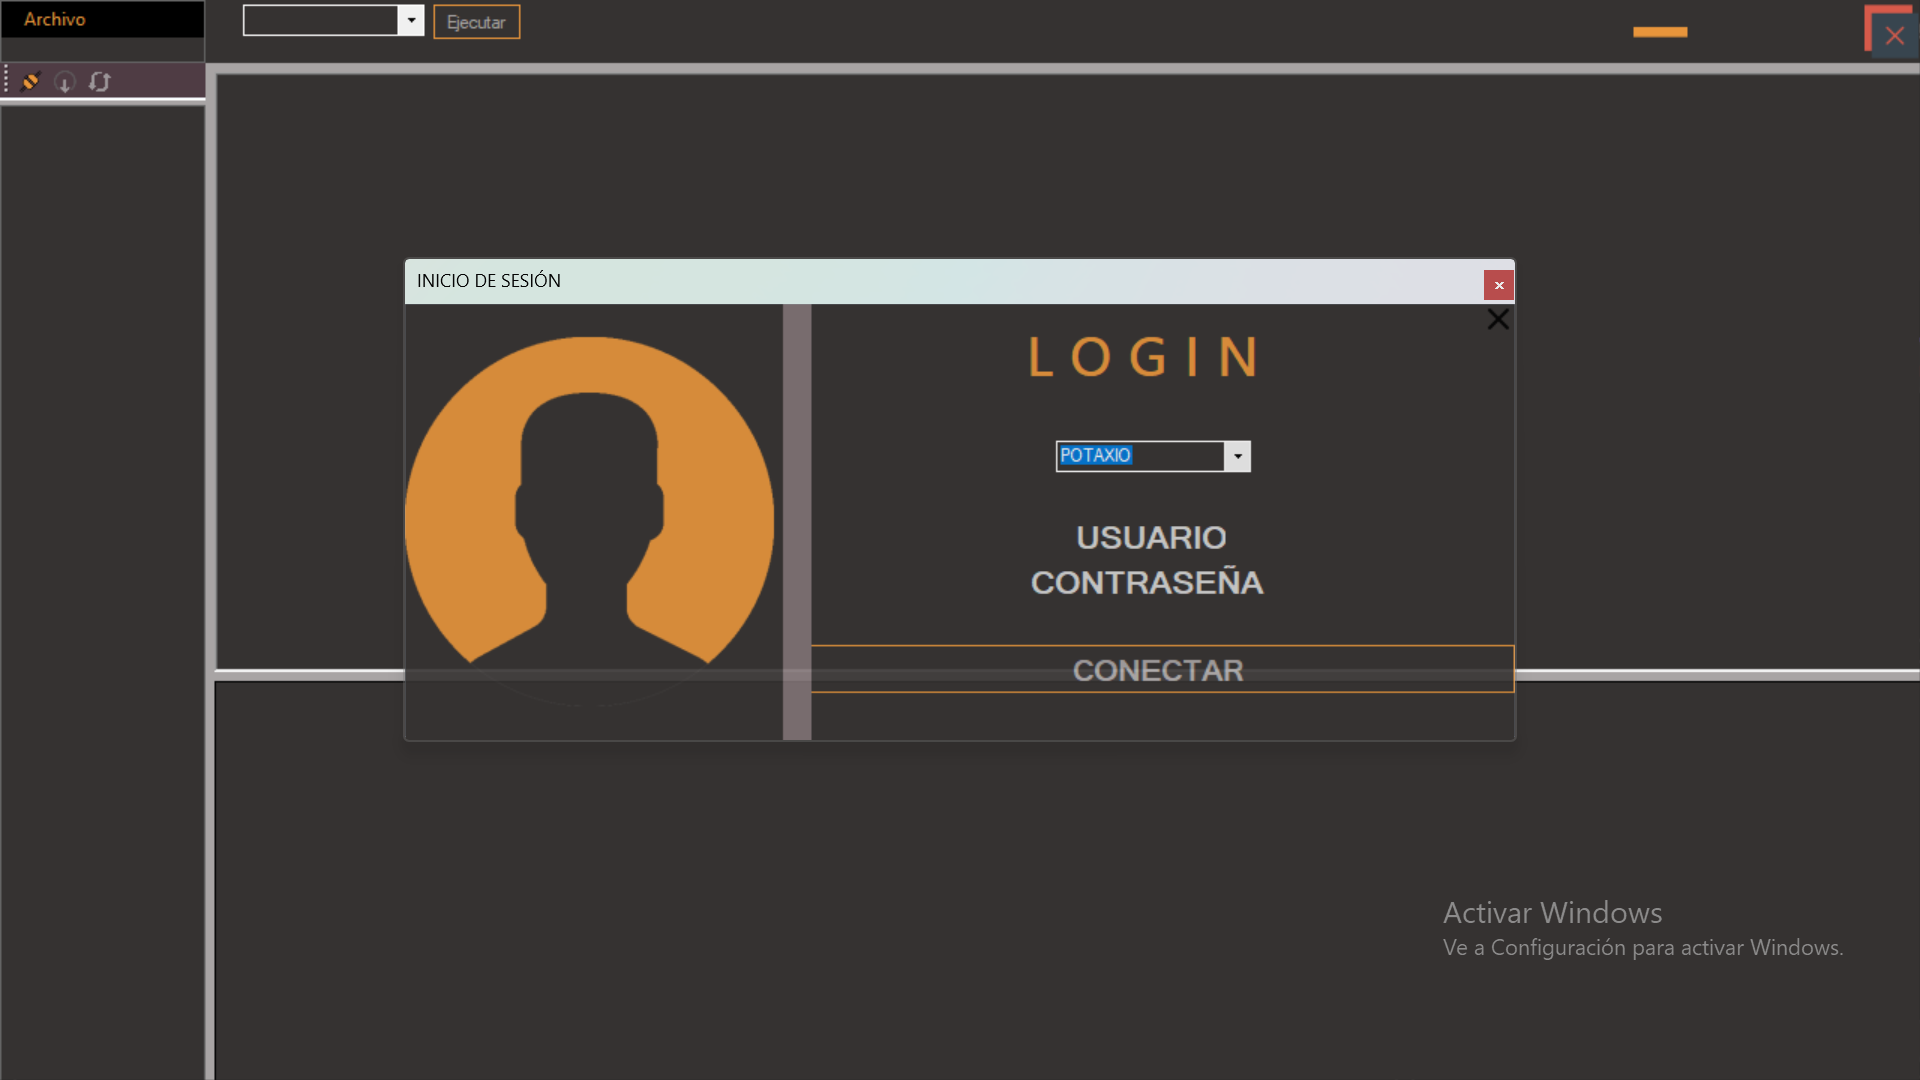
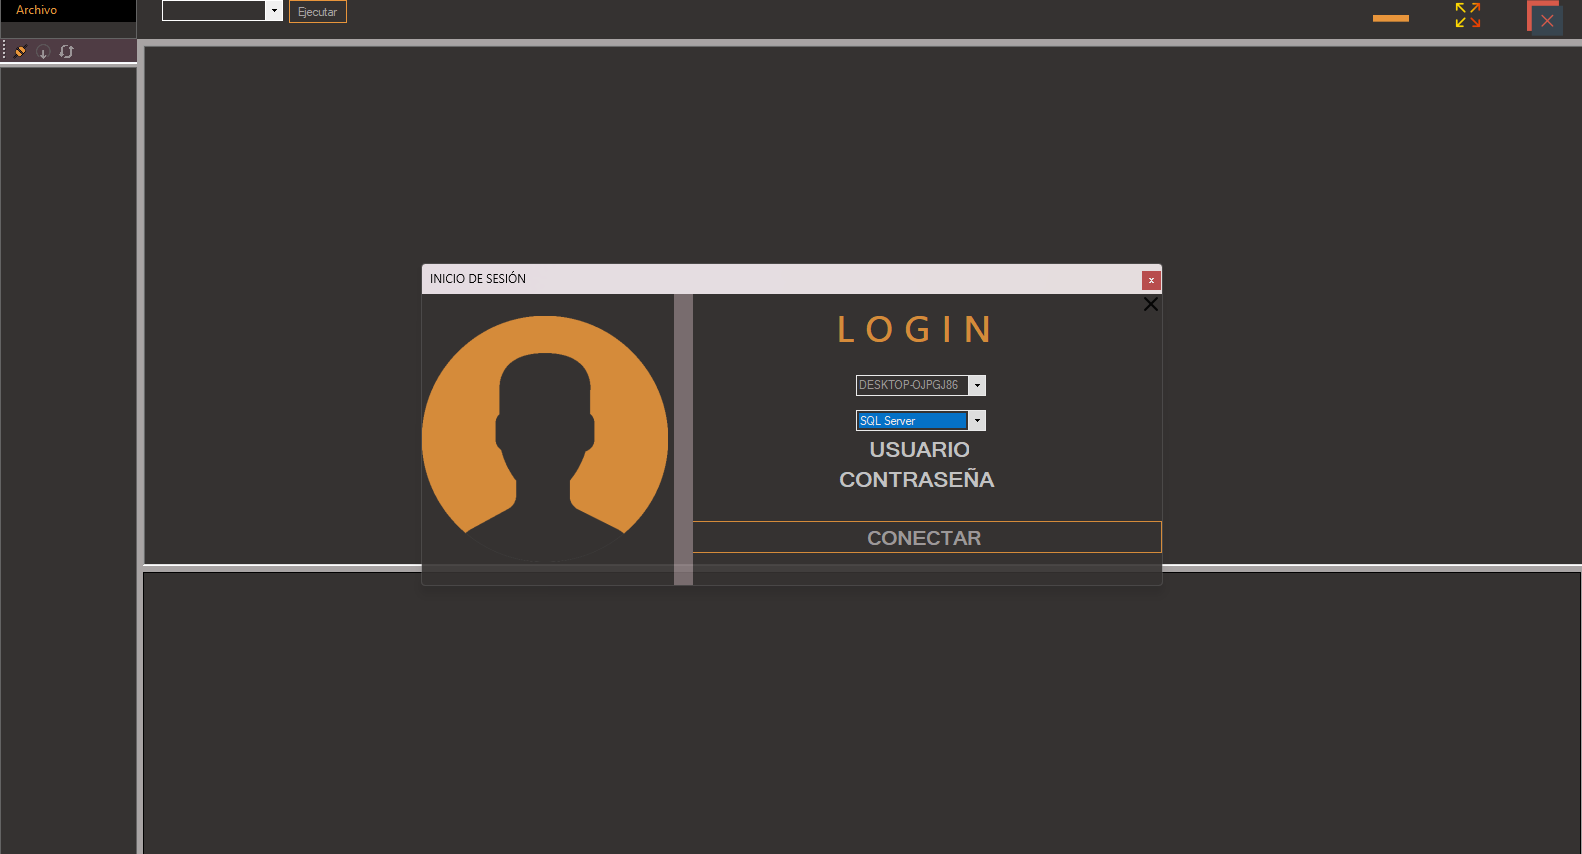
Modificación

Changed region(s): [[0.1858, 0.2131, 1.0, 1.0], [0.0, 0.0, 1.0, 1.0], [0.7434, 0.822, 0.9602, 0.8829]]

diff --git a/opConexión/MotoresBdd/MotorMySql.cs b/opConexión/MotoresBdd/MotorMySql.cs
@@ -1,0 +1,132 @@
+using Microsoft.SqlServer.Management.Smo;
+using MySql.Data.MySqlClient;
+using opConexión.Interfaces;
+using System;
+using System.Collections.Generic;
+using System.Data;
+using System.Linq;
+using System.Security.Policy;
+using System.Text;
+using System.Threading.Tasks;
+
+namespace opConexión.MotoresBdd
+{
+    public class MotorMySql : IMotorBdd
+    {
+        public  string Motor => "MySql";
+        public static bool ProbarConexion(string servidor, string usuario, string contraseña, string baseDatos = "mysql")
+        {
+            string cadenaConexion = $"Server={servidor};Database={baseDatos};Uid={usuario};Pwd={contraseña};";
+
+            using (MySqlConnection conexion = new MySqlConnection(cadenaConexion))
+            {
+                try
+                {
+                    conexion.Open();
+                    return true;
+                }
+                catch (MySqlException)
+                {
+                    return false;
+                }
+                catch (Exception)
+                {
+                    return false;
+                }
+            }
+        }
+
+        public string CadenaConexion(string servidor, string usuario, string contraseña)
+        {
+            return $"Server={servidor};Database=master;Uid={usuario};Pwd={contraseña};";
+        }
+
+        public bool ProbarConexion(string servidor, string usuario, string contraseña, out string mensaje)
+        {
+            mensaje = "";
+            try
+            {
+                using (MySqlConnection con = new MySqlConnection(CadenaConexion(servidor, usuario, contraseña)))
+                {
+                    con.Open();
+                    return true;
+                }
+            }
+            catch (Exception ex)
+            {
+                mensaje = ex.Message;
+                return false;
+            }
+        }
+
+        public DataTable ObtenerBases(string servidor, string usuario, string contraseña, out string mensaje)
+        {
+            string query = "SHOW DATABASES;";
+            return EjecutarConsultaInterna(servidor, usuario, contraseña, query, out mensaje);
+        }
+
+        public DataTable ObtenerTablas(string servidor, string usuario, string contraseña, string baseDatos, out string mensaje)
+        {
+            string query = $@"SHOW FULL TABLES IN `{baseDatos}`;";
+            return EjecutarConsultaInterna(servidor, usuario, contraseña, query, out mensaje, baseDatos);
+        }
+
+        public DataTable ObtenerCampos(string servidor, string usuario, string contraseña, string baseDatos, string tabla, out string mensaje)
+        {
+            string query = $@"
+            SELECT COLUMN_NAME, DATA_TYPE, CHARACTER_MAXIMUM_LENGTH
+            FROM INFORMATION_SCHEMA.COLUMNS
+            WHERE TABLE_SCHEMA = @BD AND TABLE_NAME = @Tabla;";
+
+            DataTable resultado = new DataTable();
+            mensaje = "";
+            try
+            {
+                using (MySqlConnection con = new MySqlConnection(CadenaConexion(servidor, usuario, contraseña)))
+                {
+                    con.Open();
+                    using (MySqlCommand cmd = new MySqlCommand(query, con))
+                    {
+                        cmd.Parameters.AddWithValue("@BD", baseDatos);
+                        cmd.Parameters.AddWithValue("@Tabla", tabla);
+                        resultado.Load(cmd.ExecuteReader());
+                    }
+                }
+            }
+            catch (Exception ex)
+            {
+                mensaje = ex.Message;
+            }
+
+            return resultado;
+        }
+
+        public DataTable EjecutarConsulta(string servidor, string usuario, string contraseña, string baseDatos, string query, out string mensaje)
+        {
+            mensaje = "";
+            return EjecutarConsultaInterna(servidor, usuario, contraseña, query, out mensaje, baseDatos);
+        }
+
+        private DataTable EjecutarConsultaInterna(string servidor, string usuario, string contraseña, string query, out string mensaje, string baseDatos = "mysql")
+        {
+            mensaje = "";
+            DataTable dt = new DataTable();
+            try
+            {
+                using (MySqlConnection con = new MySqlConnection(CadenaConexion(servidor, usuario, contraseña)))
+                {
+                    con.Open();
+                    using (MySqlCommand cmd = new MySqlCommand(query, con))
+                    {
+                        dt.Load(cmd.ExecuteReader());
+                    }
+                }
+            }
+            catch (Exception ex)
+            {
+                mensaje = ex.Message;
+            }
+            return dt;
+        }
+    }
+}

diff --git a/MiniSGBD/FormLogin.cs b/MiniSGBD/FormLogin.cs
@@ -22,6 +22,8 @@ namespace MiniSGBD
         public string sContra = string.Empty;
         public TreeView tv_MenuBd = new TreeView();
         public Boolean Entradas = false;
+       readonly MotorSqlServer motorSql = new MotorSqlServer();
+       readonly MotorMySql  motorMysql = new MotorMySql();
         public FormLogin( int nVeces)
         {
             InitializeComponent();
@@ -89,6 +91,9 @@ namespace MiniSGBD
         }
         private void btn_Conectar_Click(object sender, EventArgs e)
         {
+            if(motorSql.Motor==cb_MotorBdd.Text)
+            {
+
             if(MotorSqlServer.ProbarConexion(comboBox1.Text,tb_Usuario.Text, tb_Contraseña.Text))
             {
                 // Guardar datos de conexión para usar en el formulario principal
@@ -110,6 +115,33 @@ namespace MiniSGBD
                 MessageBox.Show("Ha sucedido un error en la conexión");
                 return;
             }
+            }
+            if(motorMysql.Motor==cb_MotorBdd.Text)
+            {
+                if (MotorMySql.ProbarConexion(comboBox1.Text, tb_Usuario.Text, tb_Contraseña.Text))
+                {
+                    // Guardar datos de conexión para usar en el formulario principal
+                    InicioSesionDatos.Servidor = comboBox1.Text;
+                    InicioSesionDatos.Usuario = tb_Usuario.Text;
+                    InicioSesionDatos.Contra = tb_Contraseña.Text;
+                    InicioSesionDatos.Motor = cb_MotorBdd.Text;
+                    // Limpieza de campos
+                    tb_Usuario.Text = "USUARIO";
+                    tb_Usuario.ForeColor = Color.LightGray;
+                    tb_Contraseña.UseSystemPasswordChar = false;
+                    tb_Contraseña.Text = "CONTRASEÑA";
+                    tb_Contraseña.ForeColor = Color.LightGray;
+
+                    comboBox1.Text = "";
+                }
+                else
+                {
+                    MessageBox.Show("Ha sucedido un error en la conexión");
+                    return;
+                }
+
+
+            }
             this.Close();
         }
         private void FormLogin_Load(object sender, EventArgs e)
@@ -119,6 +151,11 @@ namespace MiniSGBD
         private void tb_Contraseña_TextChanged(object sender, EventArgs e)
         {
             
+        }
+
+        private void FormLogin_FormClosed(object sender, FormClosedEventArgs e)
+        {
+            return;
         }
     }
 }

diff --git a/MiniSGBD/FormPrincipal.cs b/MiniSGBD/FormPrincipal.cs
@@ -12,6 +12,7 @@ using System.Linq;
 using System.Text;
 using System.Threading.Tasks;
 using System.Windows.Forms;
+using static System.Windows.Forms.VisualStyles.VisualStyleElement;
 
 
 namespace MiniSGBD
@@ -81,13 +82,18 @@ namespace MiniSGBD
 
         private void btn_Conect_Click(object sender, EventArgs e)
         {
-           formLogin.ShowDialog();
-           InicioSesionDatos.CargarTreeView(tv_MenuBD);
 
-            btn_Actualizar.Enabled = true;
-            btn_Disconnect.Enabled = true;
+            formLogin.ShowDialog();
+            if (MotorSqlServer.ProbarConexion(InicioSesionDatos.Servidor, InicioSesionDatos.Usuario, InicioSesionDatos.Contra, "master"))
+            {
 
-            formLogin.sInstancia = instancia;
+                InicioSesionDatos.CargarTreeView(tv_MenuBD);
+
+                btn_Actualizar.Enabled = true;
+                btn_Disconnect.Enabled = true;
+
+                formLogin.sInstancia = instancia;
+            }
         }
 
         private void btn_Disconnect_Click(object sender, EventArgs e)
@@ -106,7 +112,13 @@ namespace MiniSGBD
             {
                 // Eliminar el nodo raíz (servidor)
                 tv_MenuBD.Nodes.Remove(nodoSeleccionado);
+
+                cb_BasesdeDatos.DataSource = null;
+                cb_BasesdeDatos.Items.Clear(); 
+                cb_BasesdeDatos.Text = "";     
+
                 MessageBox.Show($"Servidor '{nodoSeleccionado.Text}' desconectado correctamente.", "Desconectado", MessageBoxButtons.OK, MessageBoxIcon.Information);
+
             }
             else
             {

diff --git a/MiniSGBD/FormLogin.Designer.cs b/MiniSGBD/FormLogin.Designer.cs
@@ -187,6 +187,7 @@
             | System.Windows.Forms.AnchorStyles.Left) 
             | System.Windows.Forms.AnchorStyles.Right)));
             this.cb_MotorBdd.BackColor = System.Drawing.Color.FromArgb(((int)(((byte)(53)))), ((int)(((byte)(50)))), ((int)(((byte)(49)))));
+            this.cb_MotorBdd.DropDownStyle = System.Windows.Forms.ComboBoxStyle.DropDownList;
             this.cb_MotorBdd.FlatStyle = System.Windows.Forms.FlatStyle.Flat;
             this.cb_MotorBdd.ForeColor = System.Drawing.Color.FromArgb(((int)(((byte)(168)))), ((int)(((byte)(164)))), ((int)(((byte)(164)))));
             this.cb_MotorBdd.FormattingEnabled = true;
@@ -217,6 +218,7 @@
             this.Opacity = 0.9D;
             this.StartPosition = System.Windows.Forms.FormStartPosition.CenterScreen;
             this.Text = "INICIO DE SESIÓN";
+            this.FormClosed += new System.Windows.Forms.FormClosedEventHandler(this.FormLogin_FormClosed);
             this.Load += new System.EventHandler(this.FormLogin_Load);
             this.panel1.ResumeLayout(false);
             this.panel1.PerformLayout();

diff --git a/opConexión/InicioSesionDatos.cs b/opConexión/InicioSesionDatos.cs
@@ -37,7 +37,7 @@ namespace opConexión
                 if (tv_MenuBD.Nodes[Servidor] == null)
                     tv_MenuBD.Nodes.Add(nodoServidor);
                 // Bases de datos
-                DataTable bases = motor.ObtenerBases(Servidor, Usuario, Contra, out mensaje);
+                DataTable bases = motor.ObtenerBases(Servidor, Usuario, Contra, out  mensaje);
                 foreach (DataRow db in bases.Rows)
                 {
                     string nombreBDD = db[0].ToString();
@@ -66,5 +66,6 @@ namespace opConexión
                 
             }
         }
+
     }
 }

diff --git a/opConexión/PlabrasReservadasSql.cs b/opConexión/PlabrasReservadasSql.cs
@@ -22,7 +22,7 @@ namespace opConexión
         [DllImport("user32.dll")]
         private static extern IntPtr SendMessage(IntPtr hWnd, int msg, IntPtr wParam, IntPtr lParam);
 
-        // Patrón: palabras reservadas (añade las que quieras). \b asegura "whole words".
+        // palabras reservadas
         private static readonly string pattern = @"\b(select|from|insert|update|delete|create|alter|drop|truncate|database|where|join|on|group|by|order)\b|\*";
 
         public static void Resaltar(RichTextBox rtb)

diff --git a/opConexión/GestorMotores/ManejadorDeConexion.cs b/opConexión/GestorMotores/ManejadorDeConexion.cs
@@ -13,9 +13,9 @@ namespace opConexión.GestorMotores
        
         private static readonly Dictionary<string, IMotorBdd> Motores = new Dictionary<string, IMotorBdd>()
         {
-            { "SQL Server", new MotorSqlServer() }
+            { "SQL Server", new MotorSqlServer() },
+            { "MySql", new MotorMySql() }
         };
-
 
         public static IMotorBdd ObtenerMotor(string nombreMotor)
         {
